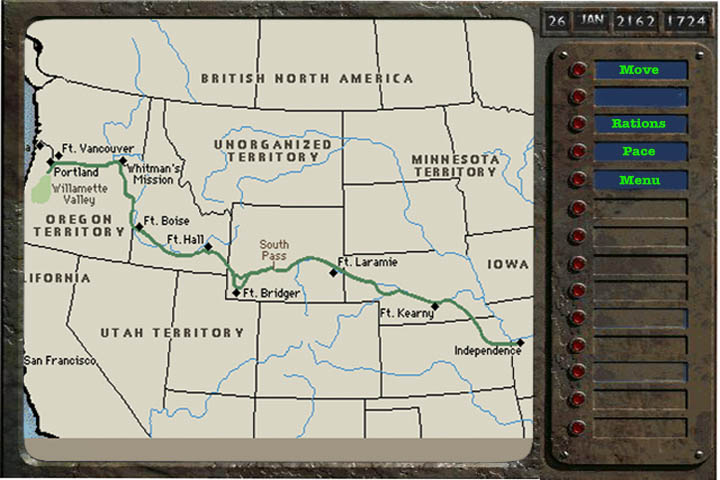
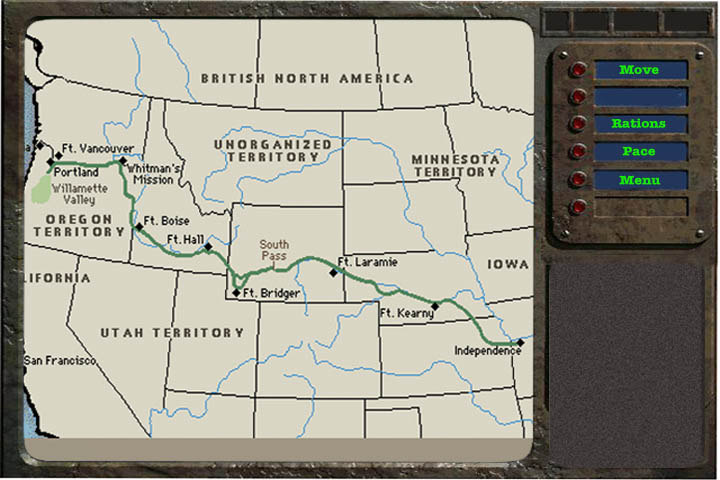
Various updates/changes, making GameEngine work better with static references, MainPanel is graphically finished, needs to be hooked up to GameEngine. GameEngine's move() needs to work with both Location and MainPanel to update both.

Changed region(s): [[0.7333, 0.4062, 1.0, 1.0], [0.7639, 0.0312, 0.9778, 0.0625]]

diff --git a/CS2340 Group Project/src/gui/MainPanel.java b/CS2340 Group Project/src/gui/MainPanel.java
@@ -5,6 +5,13 @@ import javax.swing.JLabel;
 import javax.swing.ImageIcon;
 import javax.swing.JButton;
 
+import classes.GameEngine;
+import java.awt.event.ActionListener;
+import java.awt.event.ActionEvent;
+import java.awt.Color;
+import java.awt.Font;
+import javax.swing.SwingConstants;
+
 public class MainPanel extends JPanel {
 
 	/**
@@ -14,28 +21,87 @@ public class MainPanel extends JPanel {
 		setLayout(null);
 		
 		JButton moveButton = new JButton("");
+		moveButton.addActionListener(new ActionListener() {
+			public void actionPerformed(ActionEvent arg0) {
+				GameEngine.move();
+			}
+		});
 		moveButton.setBorderPainted(false);
 		moveButton.setBounds(568, 60, 20, 20);
 		add(moveButton);
 		
 		JButton rationsButton = new JButton("");
+		rationsButton.addActionListener(new ActionListener() {
+			public void actionPerformed(ActionEvent arg0) {
+			}
+		});
 		rationsButton.setBorderPainted(false);
 		rationsButton.setBounds(568, 114, 20, 20);
 		add(rationsButton);
 		
 		JButton paceButton = new JButton("");
+		paceButton.addActionListener(new ActionListener() {
+			public void actionPerformed(ActionEvent arg0) {
+			}
+		});
 		paceButton.setBorderPainted(false);
 		paceButton.setBounds(568, 142, 20, 20);
 		add(paceButton);
 		
 		JButton menuButton = new JButton("");
+		menuButton.addActionListener(new ActionListener() {
+			public void actionPerformed(ActionEvent arg0) {
+			}
+		});
 		menuButton.setBorderPainted(false);
 		menuButton.setBounds(568, 170, 20, 20);
 		add(menuButton);
 		
-		JLabel background = new JLabel("background");
+		JLabel lblCurrentRations = new JLabel("Current Rations:");
+		lblCurrentRations.setHorizontalAlignment(SwingConstants.CENTER);
+		lblCurrentRations.setFont(new Font("American Typewriter", Font.BOLD, 13));
+		lblCurrentRations.setForeground(Color.GREEN);
+		lblCurrentRations.setBounds(568, 293, 117, 16);
+		add(lblCurrentRations);
+		
+		JLabel label = new JLabel("Rations per Day:");
+		label.setHorizontalAlignment(SwingConstants.CENTER);
+		label.setForeground(Color.GREEN);
+		label.setFont(new Font("American Typewriter", Font.BOLD, 13));
+		label.setBounds(568, 349, 117, 16);
+		add(label);
+		
+		JLabel label_1 = new JLabel("Pace per Day:");
+		label_1.setHorizontalAlignment(SwingConstants.CENTER);
+		label_1.setForeground(Color.GREEN);
+		label_1.setFont(new Font("American Typewriter", Font.BOLD, 13));
+		label_1.setBounds(568, 405, 117, 16);
+		add(label_1);
+		
+		JLabel rationsAmt = new JLabel("0");
+		rationsAmt.setHorizontalAlignment(SwingConstants.CENTER);
+		rationsAmt.setForeground(Color.GREEN);
+		rationsAmt.setFont(new Font("American Typewriter", Font.BOLD, 13));
+		rationsAmt.setBounds(568, 321, 117, 16);
+		add(rationsAmt);
+		
+		JLabel rationsPerDay = new JLabel("0");
+		rationsPerDay.setHorizontalAlignment(SwingConstants.CENTER);
+		rationsPerDay.setForeground(Color.GREEN);
+		rationsPerDay.setFont(new Font("American Typewriter", Font.BOLD, 13));
+		rationsPerDay.setBounds(568, 377, 117, 16);
+		add(rationsPerDay);
+		
+		JLabel pacePerDay = new JLabel("0");
+		pacePerDay.setHorizontalAlignment(SwingConstants.CENTER);
+		pacePerDay.setForeground(Color.GREEN);
+		pacePerDay.setFont(new Font("American Typewriter", Font.BOLD, 13));
+		pacePerDay.setBounds(568, 433, 117, 16);
+		add(pacePerDay);
+		
+		JLabel background = new JLabel("");
 		background.setIcon(new ImageIcon(MainPanel.class.getResource("/gui/resources/Map Display.jpg")));
-		background.setBounds(0, 0, 720, 480);
+		background.setBounds(0, 6, 720, 480);
 		add(background);
 		
 

diff --git a/CS2340 Group Project/src/classes/GameEngine.java b/CS2340 Group Project/src/classes/GameEngine.java
@@ -1,5 +1,7 @@
 package classes;
 
+import javax.swing.JPanel;
+
 import gui.MainFrame;
 /**
  * This class creates and controls most of the game functions
@@ -10,12 +12,14 @@ import gui.MainFrame;
 public class GameEngine {
 	
 	private static int gameDay;
-	private Event randEvent;
-	private Wagon wagon;
-	private Rations rations;
-	private Pace pace;
-	private Supplies supplies;
-	private Leader ld;
+	private static Event randEvent;
+	private static Wagon wagon;
+	private static Rations rations = new Rations();
+	private static Pace pace = new Pace();
+	private static Supplies supplies;
+	private static Leader ld;
+	private static Location location;
+	private static Map map;
 	Transaction initialTrans;
 	Store iniStore;
 	MainFrame mainFrame;
@@ -42,36 +46,36 @@ public class GameEngine {
 		
 		if(rations.equals("Filling"))
 		{
-			this.rations=new Rations(3);
+			GameEngine.rations.setRations(3);
 		}
 		else if(rations.equals("Normal"))
 		{
-			this.rations=new Rations(2);
+			GameEngine.rations.setRations(2);
 		}
 		else if(rations.equals("Meager"))
 		{
-				this.rations=new Rations(1);
+			GameEngine.rations.setRations(1);
 		}
 		else if(rations.equals("Starvation"))
 		{
-			this.rations=new Rations(0);
+			GameEngine.rations.setRations(0);
 		}
 		
 		if(pace.equals("Stopped"))
 		{
-			this.pace=new Pace(0);
+			GameEngine.pace.setPace(0);
 		}
 		else if(pace.equals("Easy"))
 		{
-			this.pace=new Pace(1);
+			GameEngine.pace.setPace(1);
 		}
 		else if(pace.equals("Normal"))
 		{
-			this.pace=new Pace(2);
+			GameEngine.pace.setPace(2);
 		}
 		else if(pace.equals("Grueling"))
 		{
-			this.pace=new Pace(3);
+			GameEngine.pace.setPace(3);
 		}
 		
 		if (membernames.length == 1)
@@ -109,17 +113,20 @@ public class GameEngine {
 		System.out.println(ld.getName());
 		System.out.println(ld.getProfession());
 		
+		location = new Location(0, GameEngine.map, GameEngine.pace);
+		
 		iniStore = new Store(iniPrices, iniQuant);
 		mainFrame = new MainFrame();
 		initialTrans = new Transaction(iniStore, supplies, mainFrame);
 		mainFrame.setTransaction(initialTrans);
+		
 	}
 	
-	public Event move(){
+	public static Event move(){
 		
+		location.updateLocation();
 		
-		
-		return randEvent;
+		return null;
 		
 	}
 }

diff --git a/CS2340 Group Project/src/gui/MainFrame.java b/CS2340 Group Project/src/gui/MainFrame.java
@@ -20,8 +20,8 @@ import javax.swing.JTextField;
 import javax.swing.SwingConstants;
 import javax.swing.border.EtchedBorder;
 
-import classes.Item;
-import classes.Transaction;
+import classes.*;
+import gui.*;
 /**
  * Creates a window to trade items between a player Supplies and a Store
  * 
@@ -189,6 +189,7 @@ public class MainFrame {
 						try{
 							purch[i] = Integer.parseInt(inputs[i].getText());
 							trans.addItems(items[i], purch[i]);
+							inputs[i].setText("0");
 						} catch (NumberFormatException e){
 							lblNumbersOnlyPlease.setVisible(true);
 						}
@@ -233,8 +234,10 @@ public class MainFrame {
 		JButton button = new JButton("Exit Store");
 		button.addActionListener(new ActionListener() {
 			public void actionPerformed(ActionEvent arg0) {
+				JPanel main = new MainPanel();
 				MainFrame.getContentPane().removeAll();
-				MainFrame.getContentPane().repaint();
+				MainFrame.getContentPane().add(main);
+				MainFrame.repaint();
 			}
 		});
 		button.setBounds(147, 129, 100, 50);

diff --git a/CS2340 Group Project/src/classes/Location.java b/CS2340 Group Project/src/classes/Location.java
@@ -17,11 +17,11 @@ public class Location
 	 * @param map the map for reference
 	 * @param pace the pace
 	 */
-	public Location(int playerLocation, Map map,Pace pace)
+	public Location(int playerLocation, Map map, Pace pace)
 	{
-		this.playerLocation=playerLocation;
-		this.map=map;
-		this.pace=pace;
+		this.playerLocation = playerLocation;
+		this.map = map;
+		this.pace = pace;
 	}
 	
 	/**

diff --git a/CS2340 Group Project/src/classes/Pace.java b/CS2340 Group Project/src/classes/Pace.java
@@ -12,13 +12,13 @@ public class Pace
 
 	/**
 	 * constructor for pace
-	 * @param initialPace the starting value.
+	 * 
 	 */
-	public Pace(int initialPace)
-	{
-		this.pacePerDay = initialPace;
-	}
 	
+	public Pace() {
+		pacePerDay = 0;
+	}
+
 	/**
 	 * setter for pace
 	 * @param pacePerDay the amount of pace.

diff --git a/CS2340 Group Project/src/classes/Rations.java b/CS2340 Group Project/src/classes/Rations.java
@@ -12,13 +12,13 @@ public class Rations
 	
 	/**
 	 * Constructor, initially set by GameEngine
-	 * @param val the value
+	 * 
 	 */
-	public Rations(int val)
-	{
-		this.rationsPerDay=val;
-	}
 	
+	public Rations() {
+		rationsPerDay = 0;
+	}
+
 	/**
 	 * getter for ration
 	 * @return the ration value
